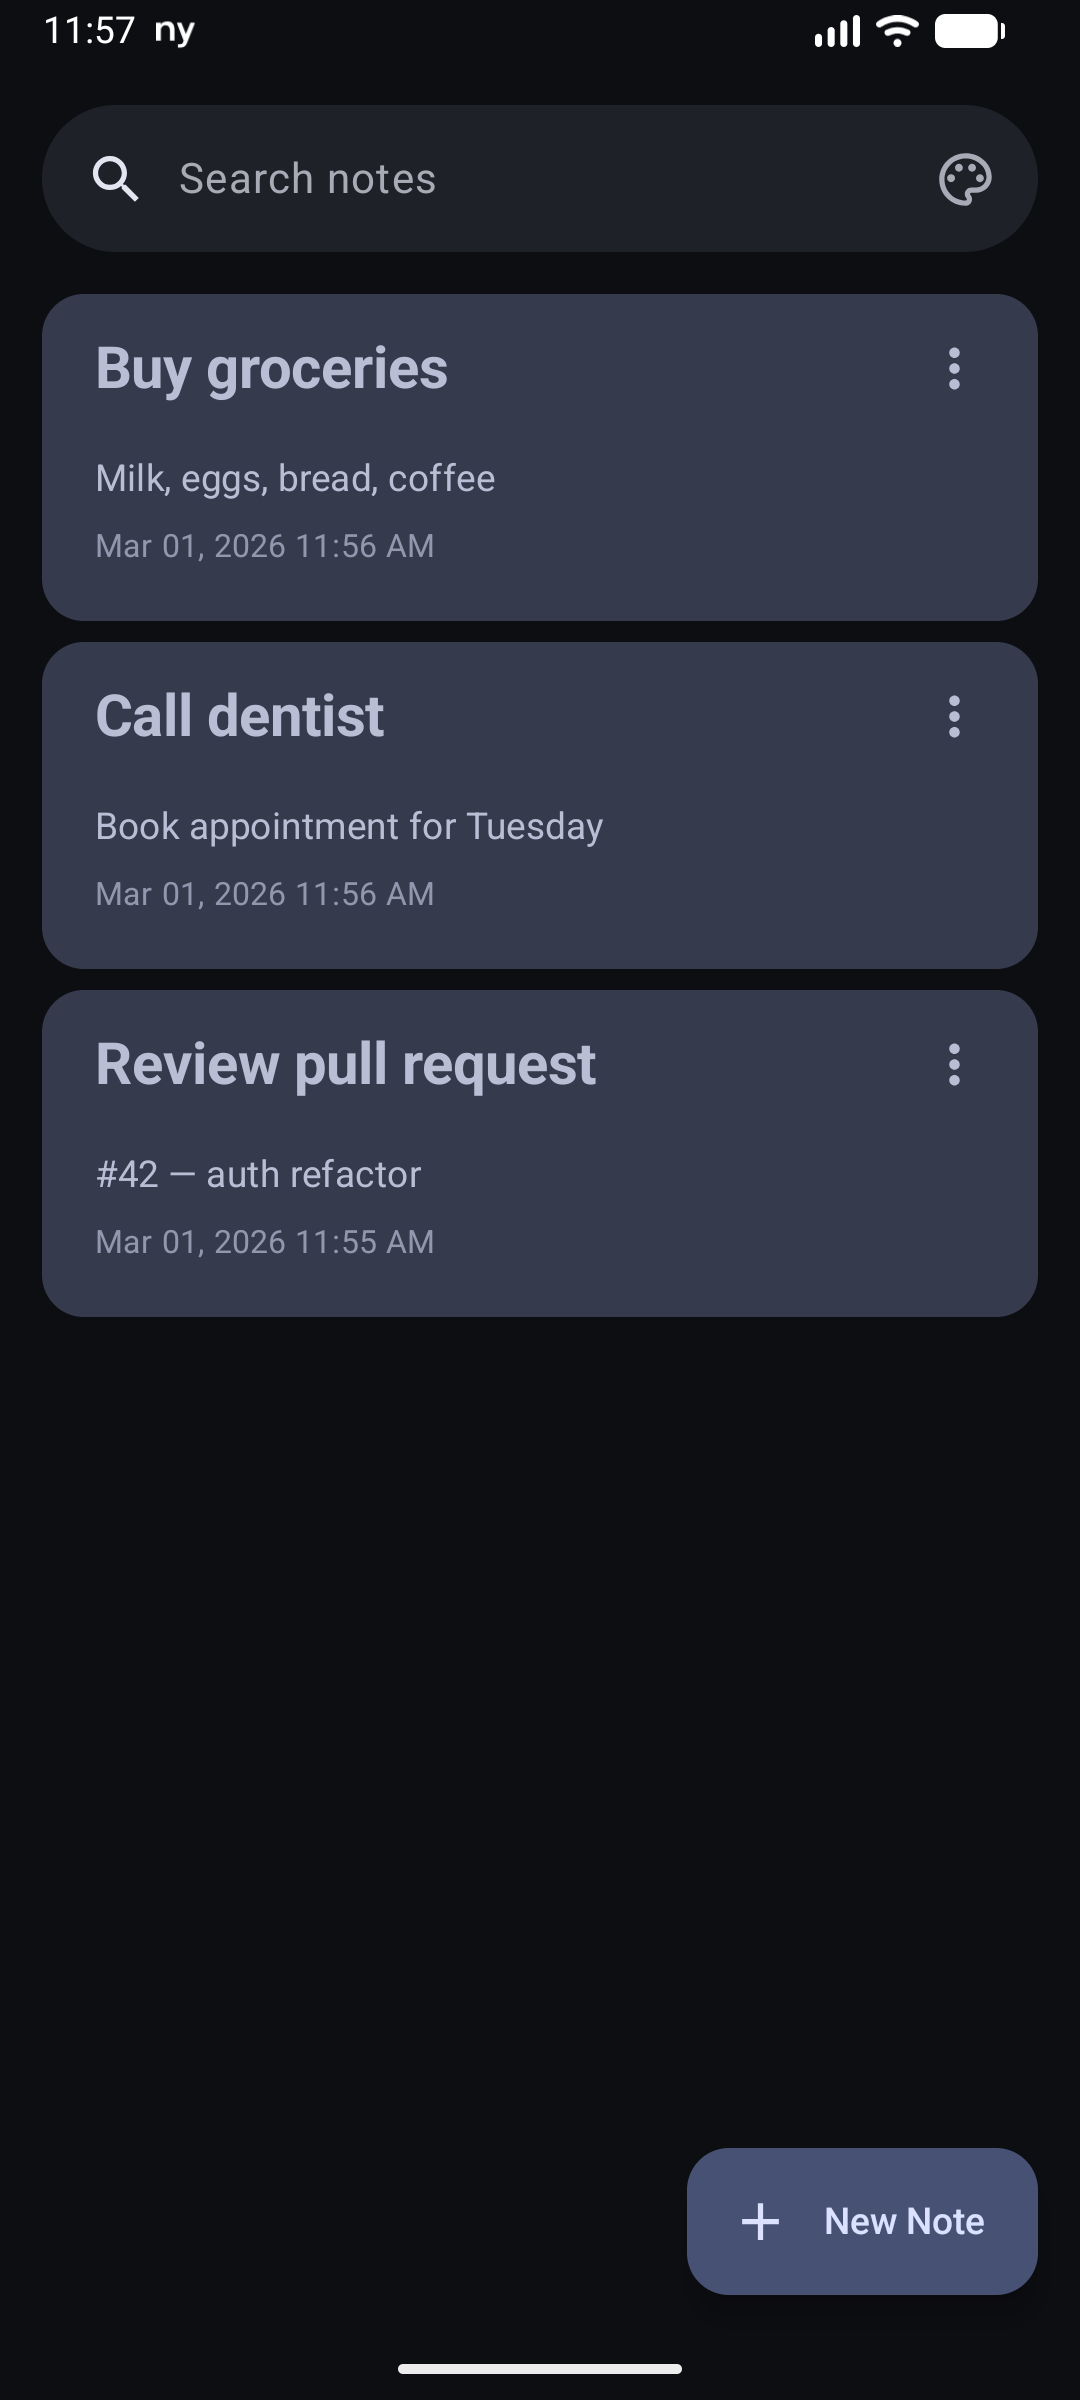
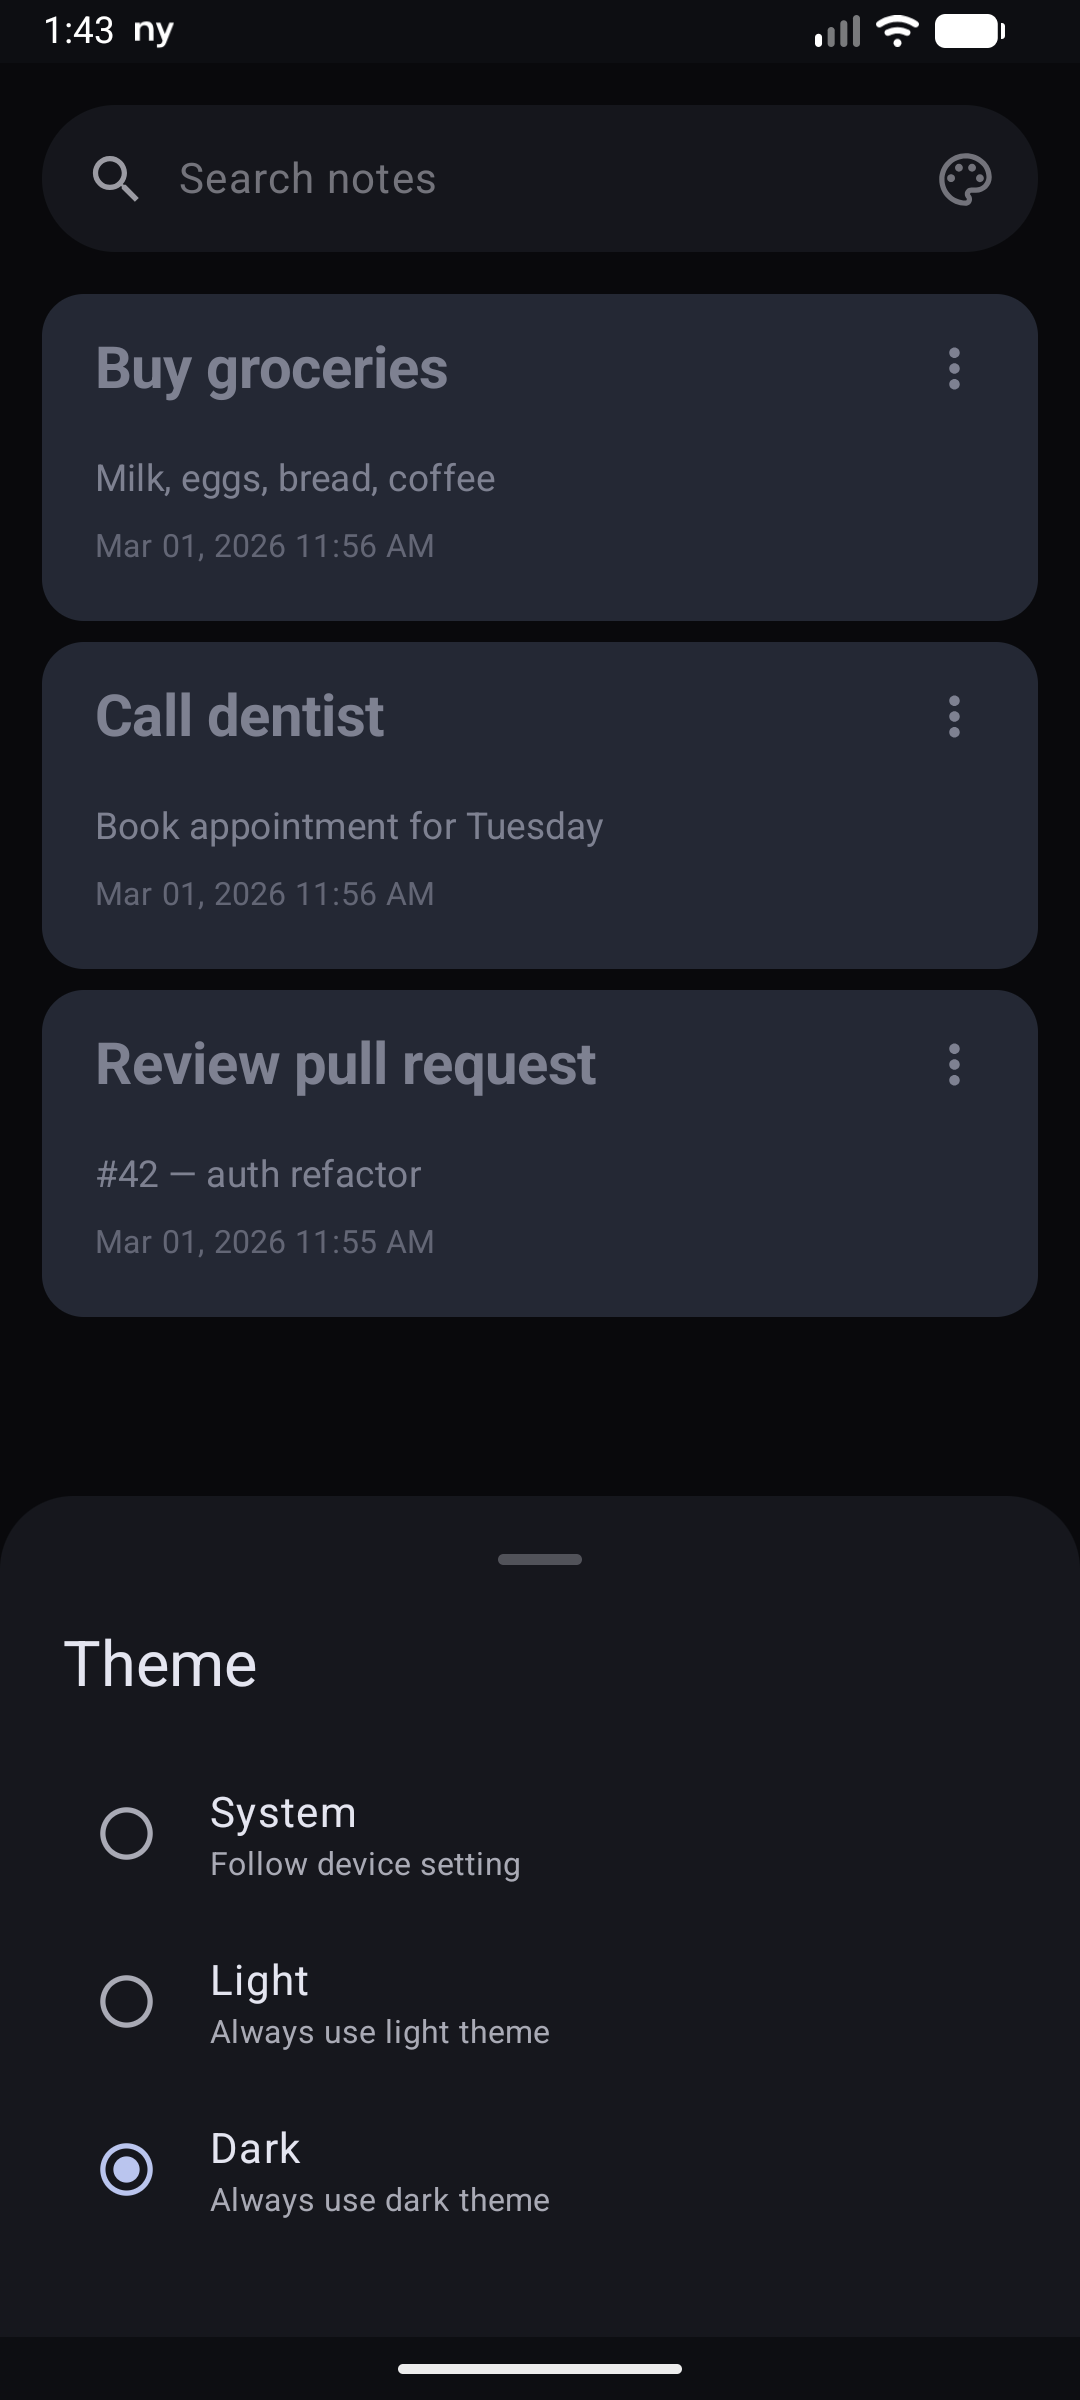
chore: reorder screenshots and fix alt text in README

diff --git a/README.md b/README.md
@@ -27,9 +27,9 @@ A simple, privacy-focused notes app for Android that keeps your notes exactly wh
   <img src="fastlane/metadata/android/en-US/images/phoneScreenshots/1.png" width="200" alt="Notes list" />
   <img src="fastlane/metadata/android/en-US/images/phoneScreenshots/2.png" width="200" alt="Add note" />
   <img src="fastlane/metadata/android/en-US/images/phoneScreenshots/3.png" width="200" alt="Notes" />
-  <img src="fastlane/metadata/android/en-US/images/phoneScreenshots/6.png" width="200" alt="Notification" />
-  <img src="fastlane/metadata/android/en-US/images/phoneScreenshots/4.png" width="200" alt="Dark theme" />
-  <img src="fastlane/metadata/android/en-US/images/phoneScreenshots/5.png" width="200" alt="Edit note" />
+  <img src="fastlane/metadata/android/en-US/images/phoneScreenshots/4.png" width="200" alt="Notifications" />
+  <img src="fastlane/metadata/android/en-US/images/phoneScreenshots/5.png" width="200" alt="Dark theme" />
+  <img src="fastlane/metadata/android/en-US/images/phoneScreenshots/6.png" width="200" alt="Edit note" />
   <img src="fastlane/metadata/android/en-US/images/phoneScreenshots/7.png" width="200" alt="Theme selection" />
 </p>
 
